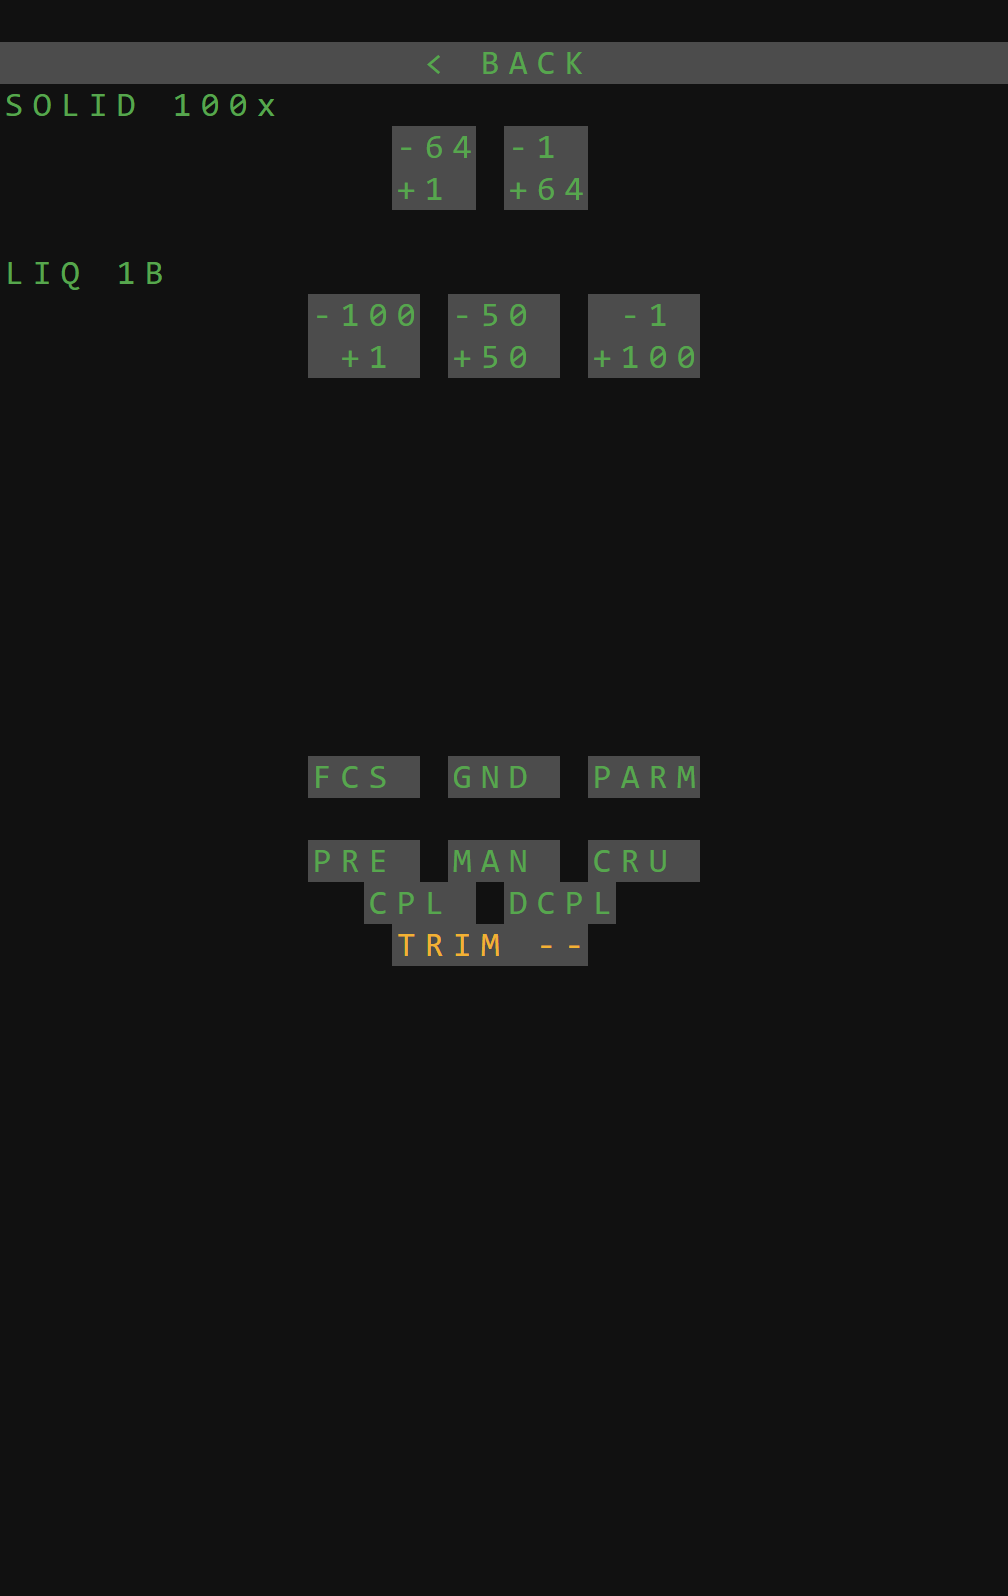
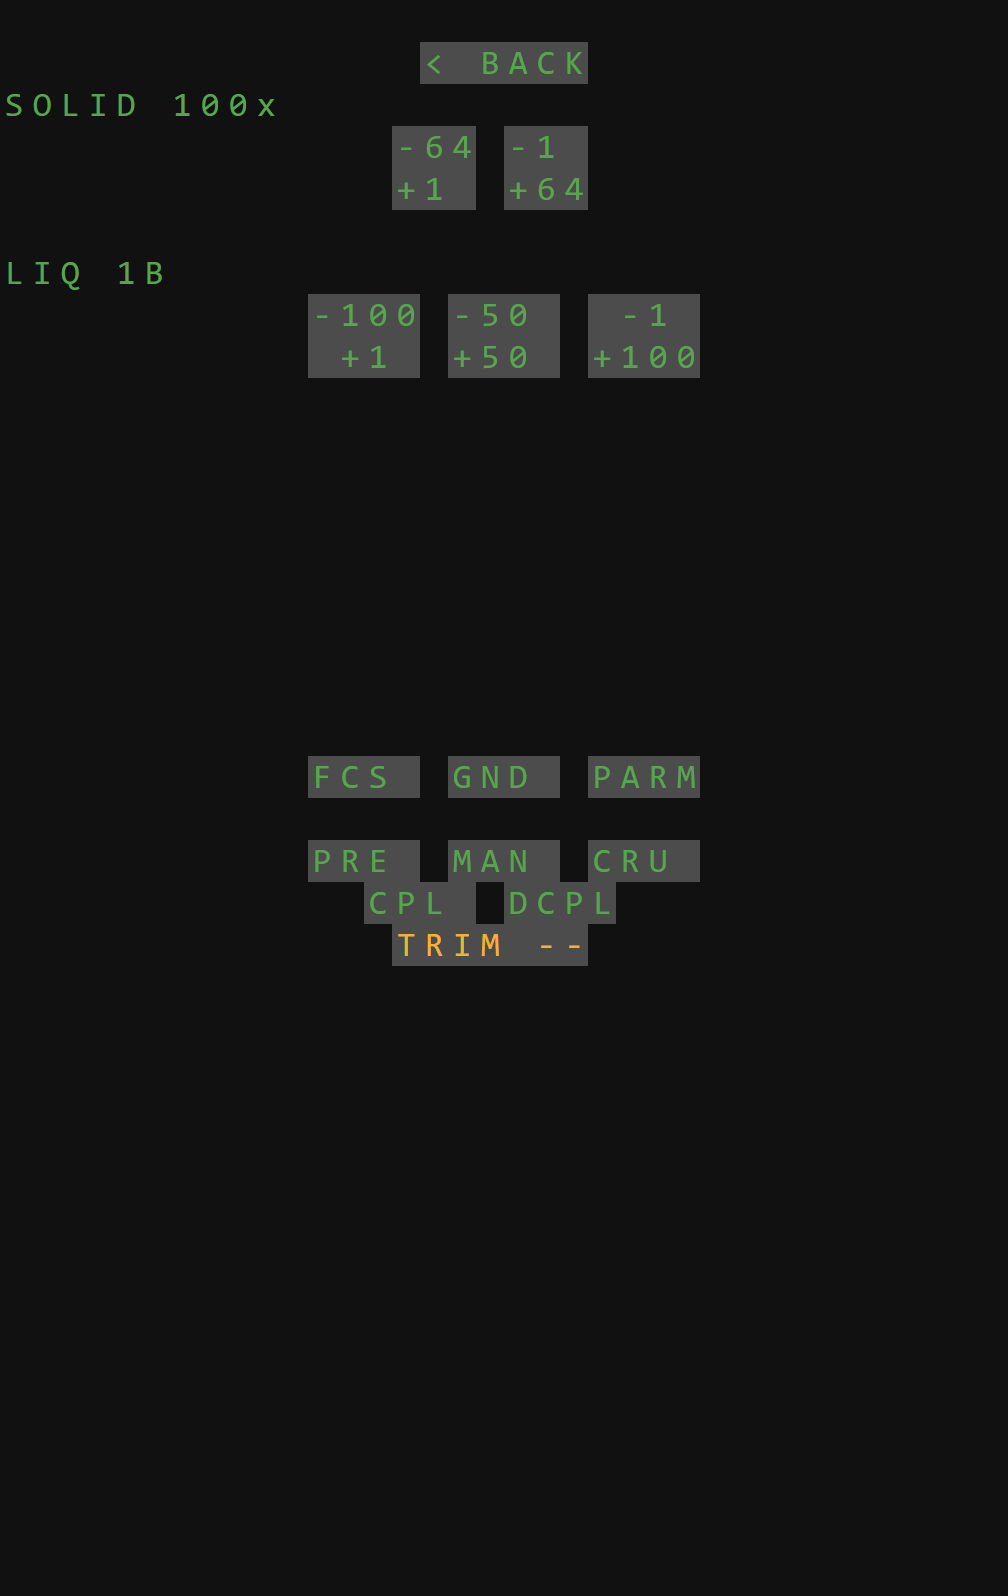
fix(ui): final button-size nudges (A/P, NAV, config, calfuel back, SIDE picker)
- pages/ap: POS HOLD / CLR DAMP sized to label + centred + stacked (were full-width
  tall bars); placeholder ALT/WAYP/RTB keep an even split (a gapped compact row
  overflows the 15-col A/P monitor).
- pages/nav: FILTER button sized to its longest value + centred; [BIT/CONFIG]
  compact + centred (were full-width).
- pages/config: monitor-assign dropdowns sized to the page names (<=6 chars),
  not spanning the shell width.
- regions/emc: fuel-calibration "< BACK" compact via btnfit.grid; SIDE picker gets
  a narrow (8-col) dropdown since its values are <=6 chars, vs the device-name pickers.

1162/0.

Changed region(s): [[0.5843, 0.0, 1.0, 0.0614], [0.0, 0.0, 0.4306, 0.0614]]

diff --git a/tools/render/out/gallery.html b/tools/render/out/gallery.html
@@ -335,9 +335,9 @@
 <rect x="0" y="21" width="210" height="21" fill="#111111"/>
 <rect x="210" y="21" width="84" height="21" fill="#4c4c4c"/>
 <rect x="294" y="21" width="210" height="21" fill="#111111"/>
-<rect x="0" y="42" width="168" height="21" fill="#111111"/>
-<rect x="168" y="42" width="224" height="21" fill="#4c4c4c"/>
-<rect x="392" y="42" width="112" height="21" fill="#111111"/>
+<rect x="0" y="42" width="224" height="21" fill="#111111"/>
+<rect x="224" y="42" width="112" height="21" fill="#4c4c4c"/>
+<rect x="336" y="42" width="168" height="21" fill="#111111"/>
 <rect x="0" y="63" width="504" height="21" fill="#111111"/>
 <rect x="0" y="84" width="154" height="21" fill="#111111"/>
 <rect x="154" y="84" width="84" height="21" fill="#4c4c4c"/>
@@ -412,10 +412,10 @@
 <text x="259" y="31.5" fill="#57a64e" font-size="17" text-anchor="middle" dominant-baseline="central">A</text>
 <text x="273" y="31.5" fill="#57a64e" font-size="17" text-anchor="middle" dominant-baseline="central">C</text>
 <text x="287" y="31.5" fill="#57a64e" font-size="17" text-anchor="middle" dominant-baseline="central">K</text>
-<text x="105" y="52.5" fill="#57a64e" font-size="17" text-anchor="middle" dominant-baseline="central">S</text>
-<text x="119" y="52.5" fill="#57a64e" font-size="17" text-anchor="middle" dominant-baseline="central">I</text>
-<text x="133" y="52.5" fill="#57a64e" font-size="17" text-anchor="middle" dominant-baseline="central">D</text>
-<text x="147" y="52.5" fill="#57a64e" font-size="17" text-anchor="middle" dominant-baseline="central">E</text>
+<text x="161" y="52.5" fill="#57a64e" font-size="17" text-anchor="middle" dominant-baseline="central">S</text>
+<text x="175" y="52.5" fill="#57a64e" font-size="17" text-anchor="middle" dominant-baseline="central">I</text>
+<text x="189" y="52.5" fill="#57a64e" font-size="17" text-anchor="middle" dominant-baseline="central">D</text>
+<text x="203" y="52.5" fill="#57a64e" font-size="17" text-anchor="middle" dominant-baseline="central">E</text>
 <text x="259" y="52.5" fill="#57a64e" font-size="17" text-anchor="middle" dominant-baseline="central">b</text>
 <text x="273" y="52.5" fill="#57a64e" font-size="17" text-anchor="middle" dominant-baseline="central">a</text>
 <text x="287" y="52.5" fill="#57a64e" font-size="17" text-anchor="middle" dominant-baseline="central">c</text>
@@ -538,7 +538,9 @@
         <div class="screen"><svg xmlns="http://www.w3.org/2000/svg" width="504" height="798" viewBox="0 0 504 798" font-family="'DejaVu Sans Mono','Consolas',monospace" shape-rendering="crispEdges">
 <rect x="0" y="0" width="504" height="798" fill="#111111"/>
 <rect x="0" y="0" width="504" height="21" fill="#111111"/>
-<rect x="0" y="21" width="504" height="21" fill="#4c4c4c"/>
+<rect x="0" y="21" width="210" height="21" fill="#111111"/>
+<rect x="210" y="21" width="84" height="21" fill="#4c4c4c"/>
+<rect x="294" y="21" width="210" height="21" fill="#111111"/>
 <rect x="0" y="42" width="504" height="21" fill="#111111"/>
 <rect x="0" y="63" width="196" height="21" fill="#111111"/>
 <rect x="196" y="63" width="42" height="21" fill="#4c4c4c"/>
@@ -869,7 +871,9 @@
 <rect x="280" y="0" width="14" height="21" fill="#111111"/>
 <rect x="294" y="0" width="70" height="21" fill="#4c4c4c"/>
 <rect x="364" y="0" width="140" height="21" fill="#111111"/>
-<rect x="0" y="21" width="504" height="21" fill="#4c4c4c"/>
+<rect x="0" y="21" width="126" height="21" fill="#111111"/>
+<rect x="126" y="21" width="252" height="21" fill="#4c4c4c"/>
+<rect x="378" y="21" width="126" height="21" fill="#111111"/>
 <rect x="0" y="42" width="504" height="21" fill="#111111"/>
 <rect x="0" y="63" width="504" height="21" fill="#111111"/>
 <rect x="0" y="84" width="504" height="21" fill="#111111"/>
@@ -881,9 +885,9 @@
 <rect x="224" y="168" width="28" height="21" fill="#111111"/>
 <rect x="252" y="168" width="84" height="21" fill="#4c4c4c"/>
 <rect x="336" y="168" width="168" height="21" fill="#111111"/>
-<rect x="0" y="189" width="14" height="21" fill="#111111"/>
-<rect x="14" y="189" width="476" height="21" fill="#4c4c4c"/>
-<rect x="490" y="189" width="14" height="21" fill="#111111"/>
+<rect x="0" y="189" width="154" height="21" fill="#111111"/>
+<rect x="154" y="189" width="196" height="21" fill="#4c4c4c"/>
+<rect x="350" y="189" width="154" height="21" fill="#111111"/>
 <text x="147" y="10.5" fill="#57a64e" font-size="17" text-anchor="middle" dominant-baseline="central">W</text>
 <text x="161" y="10.5" fill="#57a64e" font-size="17" text-anchor="middle" dominant-baseline="central">P</text>
 <text x="175" y="10.5" fill="#57a64e" font-size="17" text-anchor="middle" dominant-baseline="central">T</text>
@@ -1975,12 +1979,12 @@
 <rect x="0" y="0" width="714" height="399" fill="#111111"/>
 <rect x="0" y="0" width="714" height="21" fill="#111111"/>
 <rect x="0" y="21" width="714" height="21" fill="#111111"/>
-<rect x="0" y="42" width="154" height="21" fill="#111111"/>
-<rect x="154" y="42" width="546" height="21" fill="#4c4c4c"/>
-<rect x="700" y="42" width="14" height="21" fill="#111111"/>
-<rect x="0" y="63" width="154" height="21" fill="#111111"/>
-<rect x="154" y="63" width="546" height="21" fill="#4c4c4c"/>
-<rect x="700" y="63" width="14" height="21" fill="#111111"/>
+<rect x="0" y="42" width="168" height="21" fill="#111111"/>
+<rect x="168" y="42" width="140" height="21" fill="#4c4c4c"/>
+<rect x="308" y="42" width="406" height="21" fill="#111111"/>
+<rect x="0" y="63" width="168" height="21" fill="#111111"/>
+<rect x="168" y="63" width="140" height="21" fill="#4c4c4c"/>
+<rect x="308" y="63" width="406" height="21" fill="#111111"/>
 <rect x="0" y="84" width="714" height="21" fill="#111111"/>
 <rect x="0" y="105" width="714" height="21" fill="#111111"/>
 <rect x="0" y="126" width="714" height="21" fill="#111111"/>
@@ -2013,9 +2017,9 @@
 <text x="105" y="52.5" fill="#57a64e" font-size="17" text-anchor="middle" dominant-baseline="central">r</text>
 <text x="119" y="52.5" fill="#57a64e" font-size="17" text-anchor="middle" dominant-baseline="central">_</text>
 <text x="133" y="52.5" fill="#57a64e" font-size="17" text-anchor="middle" dominant-baseline="central">0</text>
-<text x="413" y="52.5" fill="#57a64e" font-size="17" text-anchor="middle" dominant-baseline="central">e</text>
-<text x="427" y="52.5" fill="#57a64e" font-size="17" text-anchor="middle" dominant-baseline="central">m</text>
-<text x="441" y="52.5" fill="#57a64e" font-size="17" text-anchor="middle" dominant-baseline="central">c</text>
+<text x="217" y="52.5" fill="#57a64e" font-size="17" text-anchor="middle" dominant-baseline="central">e</text>
+<text x="231" y="52.5" fill="#57a64e" font-size="17" text-anchor="middle" dominant-baseline="central">m</text>
+<text x="245" y="52.5" fill="#57a64e" font-size="17" text-anchor="middle" dominant-baseline="central">c</text>
 <text x="21" y="73.5" fill="#57a64e" font-size="17" text-anchor="middle" dominant-baseline="central">m</text>
 <text x="35" y="73.5" fill="#57a64e" font-size="17" text-anchor="middle" dominant-baseline="central">o</text>
 <text x="49" y="73.5" fill="#57a64e" font-size="17" text-anchor="middle" dominant-baseline="central">n</text>
@@ -2025,9 +2029,9 @@
 <text x="105" y="73.5" fill="#57a64e" font-size="17" text-anchor="middle" dominant-baseline="central">r</text>
 <text x="119" y="73.5" fill="#57a64e" font-size="17" text-anchor="middle" dominant-baseline="central">_</text>
 <text x="133" y="73.5" fill="#57a64e" font-size="17" text-anchor="middle" dominant-baseline="central">1</text>
-<text x="413" y="73.5" fill="#57a64e" font-size="17" text-anchor="middle" dominant-baseline="central">f</text>
-<text x="427" y="73.5" fill="#57a64e" font-size="17" text-anchor="middle" dominant-baseline="central">c</text>
-<text x="441" y="73.5" fill="#57a64e" font-size="17" text-anchor="middle" dominant-baseline="central">s</text>
+<text x="217" y="73.5" fill="#57a64e" font-size="17" text-anchor="middle" dominant-baseline="central">f</text>
+<text x="231" y="73.5" fill="#57a64e" font-size="17" text-anchor="middle" dominant-baseline="central">c</text>
+<text x="245" y="73.5" fill="#57a64e" font-size="17" text-anchor="middle" dominant-baseline="central">s</text>
 <text x="21" y="115.5" fill="#57a64e" font-size="17" text-anchor="middle" dominant-baseline="central">D</text>
 <text x="35" y="115.5" fill="#57a64e" font-size="17" text-anchor="middle" dominant-baseline="central">E</text>
 <text x="49" y="115.5" fill="#57a64e" font-size="17" text-anchor="middle" dominant-baseline="central">V</text>
@@ -2122,22 +2126,18 @@
         <div class="screen"><svg xmlns="http://www.w3.org/2000/svg" width="210" height="210" viewBox="0 0 210 210" font-family="'DejaVu Sans Mono','Consolas',monospace" shape-rendering="crispEdges">
 <rect x="0" y="0" width="210" height="210" fill="#111111"/>
 <rect x="0" y="0" width="210" height="21" fill="#111111"/>
-<rect x="0" y="21" width="14" height="21" fill="#111111"/>
-<rect x="14" y="21" width="182" height="21" fill="#4c4c4c"/>
-<rect x="196" y="21" width="14" height="21" fill="#111111"/>
-<rect x="0" y="42" width="14" height="21" fill="#111111"/>
-<rect x="14" y="42" width="182" height="21" fill="#4c4c4c"/>
-<rect x="196" y="42" width="14" height="21" fill="#111111"/>
-<rect x="0" y="63" width="14" height="21" fill="#111111"/>
-<rect x="14" y="63" width="182" height="21" fill="#4c4c4c"/>
-<rect x="196" y="63" width="14" height="21" fill="#111111"/>
+<rect x="0" y="21" width="42" height="21" fill="#111111"/>
+<rect x="42" y="21" width="112" height="21" fill="#4c4c4c"/>
+<rect x="154" y="21" width="56" height="21" fill="#111111"/>
+<rect x="0" y="42" width="42" height="21" fill="#111111"/>
+<rect x="42" y="42" width="112" height="21" fill="#4c4c4c"/>
+<rect x="154" y="42" width="56" height="21" fill="#111111"/>
+<rect x="0" y="63" width="210" height="21" fill="#111111"/>
 <rect x="0" y="84" width="14" height="21" fill="#111111"/>
 <rect x="14" y="84" width="182" height="21" fill="#4c4c4c"/>
 <rect x="196" y="84" width="14" height="21" fill="#111111"/>
 <rect x="0" y="105" width="210" height="21" fill="#111111"/>
-<rect x="0" y="126" width="14" height="21" fill="#111111"/>
-<rect x="14" y="126" width="182" height="21" fill="#4c4c4c"/>
-<rect x="196" y="126" width="14" height="21" fill="#111111"/>
+<rect x="0" y="126" width="210" height="21" fill="#111111"/>
 <rect x="0" y="147" width="210" height="21" fill="#111111"/>
 <rect x="0" y="168" width="210" height="21" fill="#111111"/>
 <rect x="0" y="189" width="210" height="21" fill="#111111"/>
@@ -2148,23 +2148,23 @@
 <text x="119" y="31.5" fill="#57a64e" font-size="17" text-anchor="middle" dominant-baseline="central">O</text>
 <text x="133" y="31.5" fill="#57a64e" font-size="17" text-anchor="middle" dominant-baseline="central">L</text>
 <text x="147" y="31.5" fill="#57a64e" font-size="17" text-anchor="middle" dominant-baseline="central">D</text>
-<text x="49" y="73.5" fill="#57a64e" font-size="17" text-anchor="middle" dominant-baseline="central">C</text>
-<text x="63" y="73.5" fill="#57a64e" font-size="17" text-anchor="middle" dominant-baseline="central">L</text>
-<text x="77" y="73.5" fill="#57a64e" font-size="17" text-anchor="middle" dominant-baseline="central">R</text>
-<text x="105" y="73.5" fill="#57a64e" font-size="17" text-anchor="middle" dominant-baseline="central">D</text>
-<text x="119" y="73.5" fill="#57a64e" font-size="17" text-anchor="middle" dominant-baseline="central">A</text>
-<text x="133" y="73.5" fill="#57a64e" font-size="17" text-anchor="middle" dominant-baseline="central">M</text>
-<text x="147" y="73.5" fill="#57a64e" font-size="17" text-anchor="middle" dominant-baseline="central">P</text>
-<text x="21" y="136.5" fill="#f2b233" font-size="17" text-anchor="middle" dominant-baseline="central">A</text>
-<text x="35" y="136.5" fill="#f2b233" font-size="17" text-anchor="middle" dominant-baseline="central">L</text>
-<text x="49" y="136.5" fill="#f2b233" font-size="17" text-anchor="middle" dominant-baseline="central">T</text>
-<text x="77" y="136.5" fill="#f2b233" font-size="17" text-anchor="middle" dominant-baseline="central">W</text>
-<text x="91" y="136.5" fill="#f2b233" font-size="17" text-anchor="middle" dominant-baseline="central">A</text>
-<text x="105" y="136.5" fill="#f2b233" font-size="17" text-anchor="middle" dominant-baseline="central">Y</text>
-<text x="119" y="136.5" fill="#f2b233" font-size="17" text-anchor="middle" dominant-baseline="central">P</text>
-<text x="147" y="136.5" fill="#f2b233" font-size="17" text-anchor="middle" dominant-baseline="central">R</text>
-<text x="161" y="136.5" fill="#f2b233" font-size="17" text-anchor="middle" dominant-baseline="central">T</text>
-<text x="175" y="136.5" fill="#f2b233" font-size="17" text-anchor="middle" dominant-baseline="central">B</text>
+<text x="49" y="52.5" fill="#57a64e" font-size="17" text-anchor="middle" dominant-baseline="central">C</text>
+<text x="63" y="52.5" fill="#57a64e" font-size="17" text-anchor="middle" dominant-baseline="central">L</text>
+<text x="77" y="52.5" fill="#57a64e" font-size="17" text-anchor="middle" dominant-baseline="central">R</text>
+<text x="105" y="52.5" fill="#57a64e" font-size="17" text-anchor="middle" dominant-baseline="central">D</text>
+<text x="119" y="52.5" fill="#57a64e" font-size="17" text-anchor="middle" dominant-baseline="central">A</text>
+<text x="133" y="52.5" fill="#57a64e" font-size="17" text-anchor="middle" dominant-baseline="central">M</text>
+<text x="147" y="52.5" fill="#57a64e" font-size="17" text-anchor="middle" dominant-baseline="central">P</text>
+<text x="21" y="94.5" fill="#f2b233" font-size="17" text-anchor="middle" dominant-baseline="central">A</text>
+<text x="35" y="94.5" fill="#f2b233" font-size="17" text-anchor="middle" dominant-baseline="central">L</text>
+<text x="49" y="94.5" fill="#f2b233" font-size="17" text-anchor="middle" dominant-baseline="central">T</text>
+<text x="77" y="94.5" fill="#f2b233" font-size="17" text-anchor="middle" dominant-baseline="central">W</text>
+<text x="91" y="94.5" fill="#f2b233" font-size="17" text-anchor="middle" dominant-baseline="central">A</text>
+<text x="105" y="94.5" fill="#f2b233" font-size="17" text-anchor="middle" dominant-baseline="central">Y</text>
+<text x="119" y="94.5" fill="#f2b233" font-size="17" text-anchor="middle" dominant-baseline="central">P</text>
+<text x="147" y="94.5" fill="#f2b233" font-size="17" text-anchor="middle" dominant-baseline="central">R</text>
+<text x="161" y="94.5" fill="#f2b233" font-size="17" text-anchor="middle" dominant-baseline="central">T</text>
+<text x="175" y="94.5" fill="#f2b233" font-size="17" text-anchor="middle" dominant-baseline="central">B</text>
 </svg></div>
         <figcaption>A/P</figcaption>
       </figure></div>
